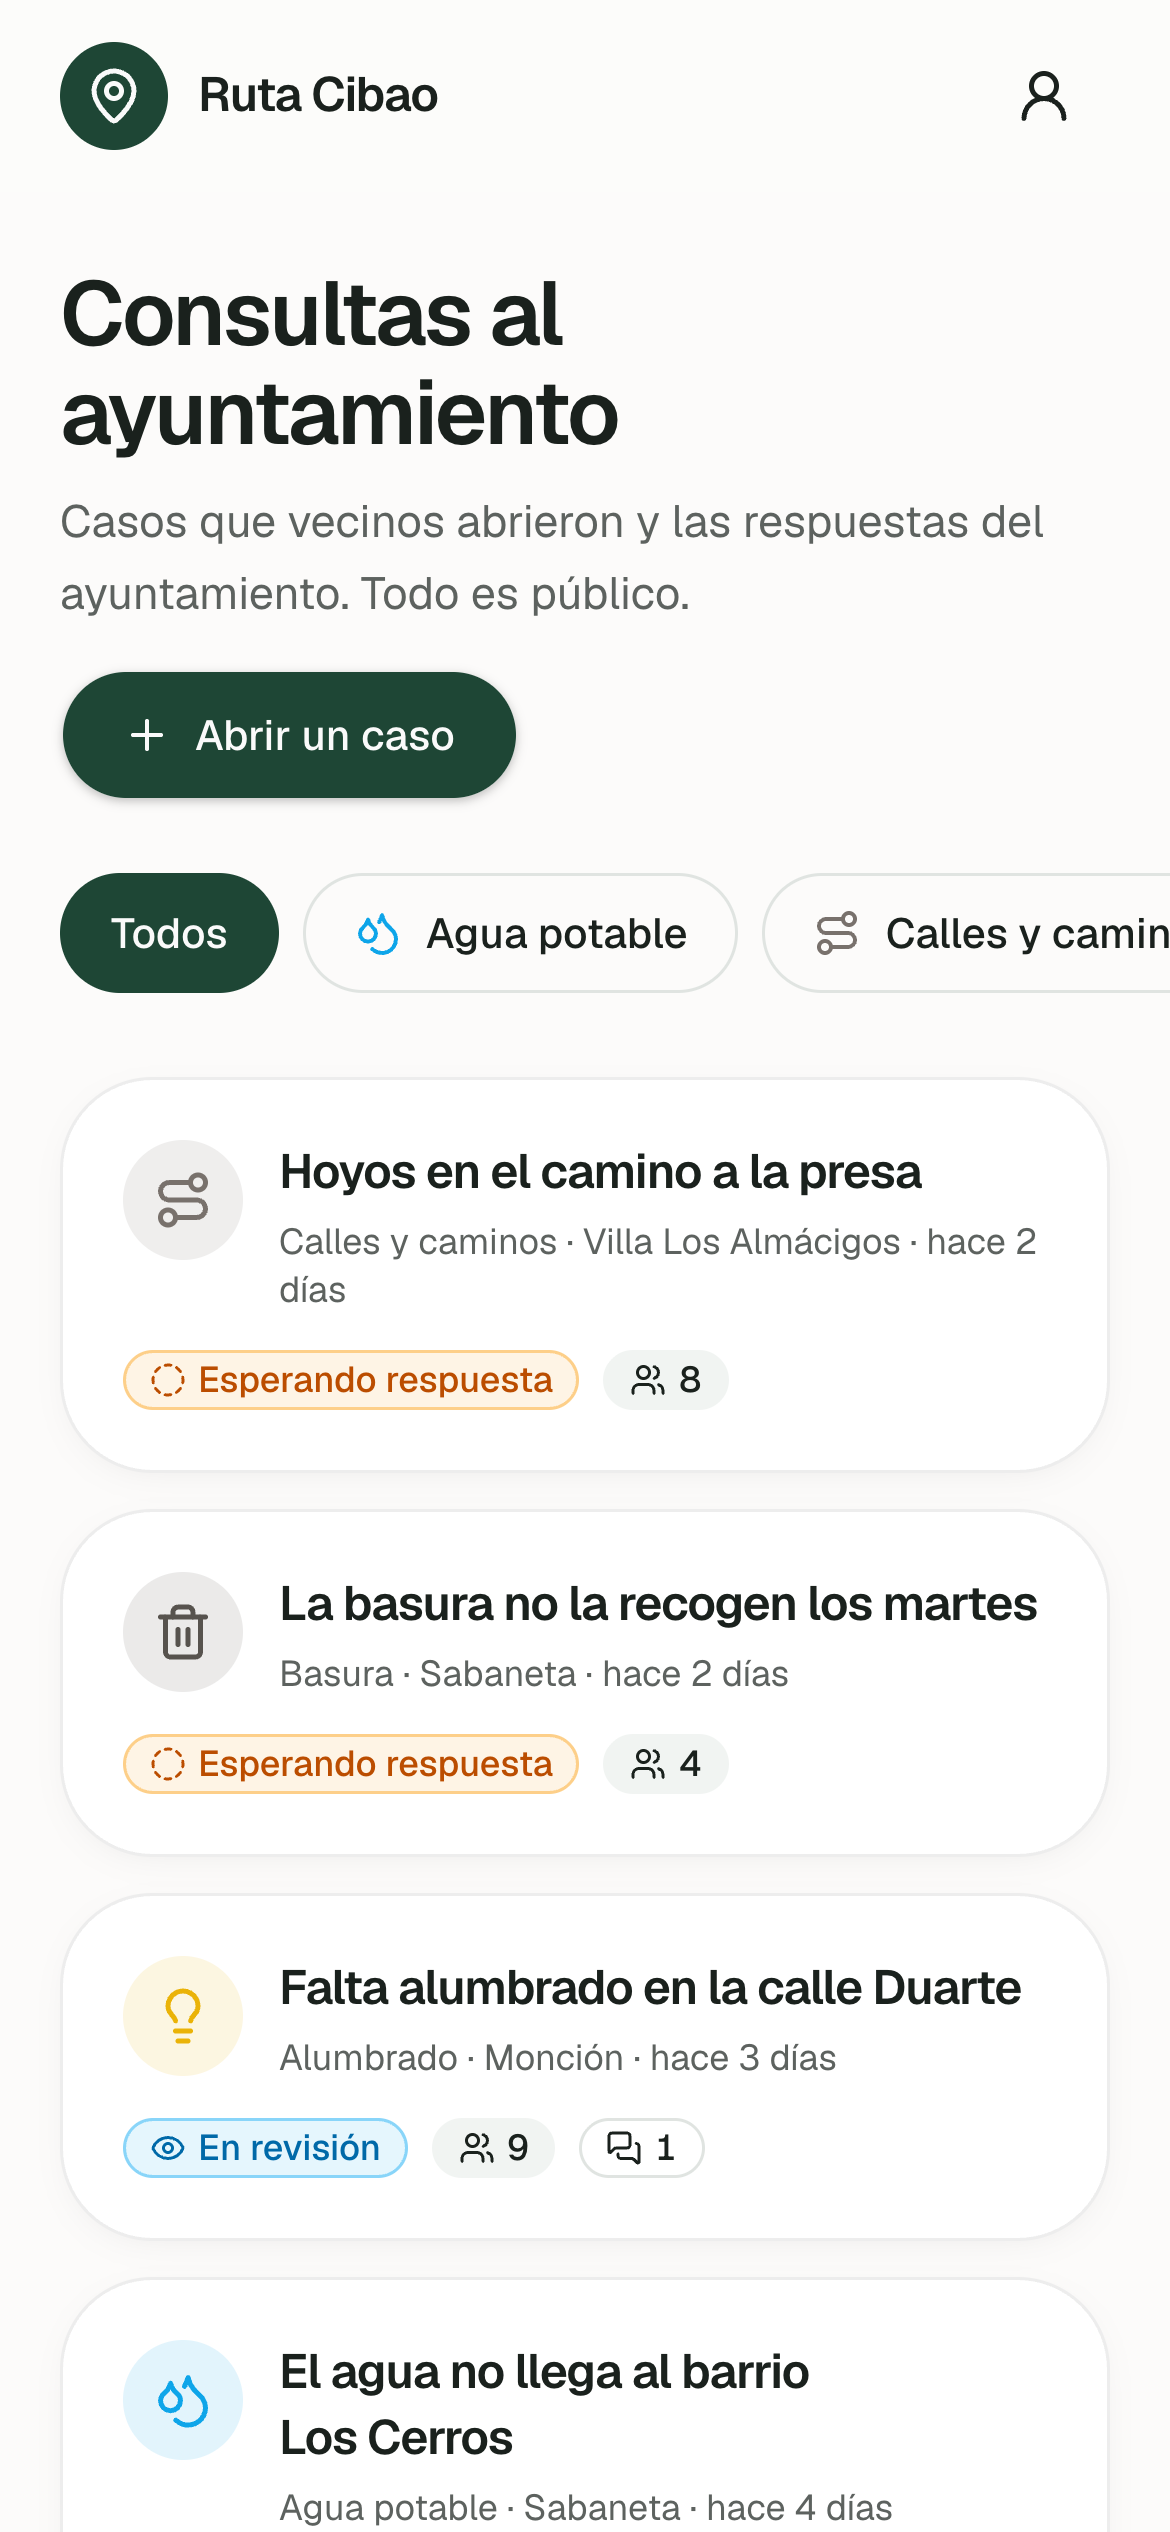
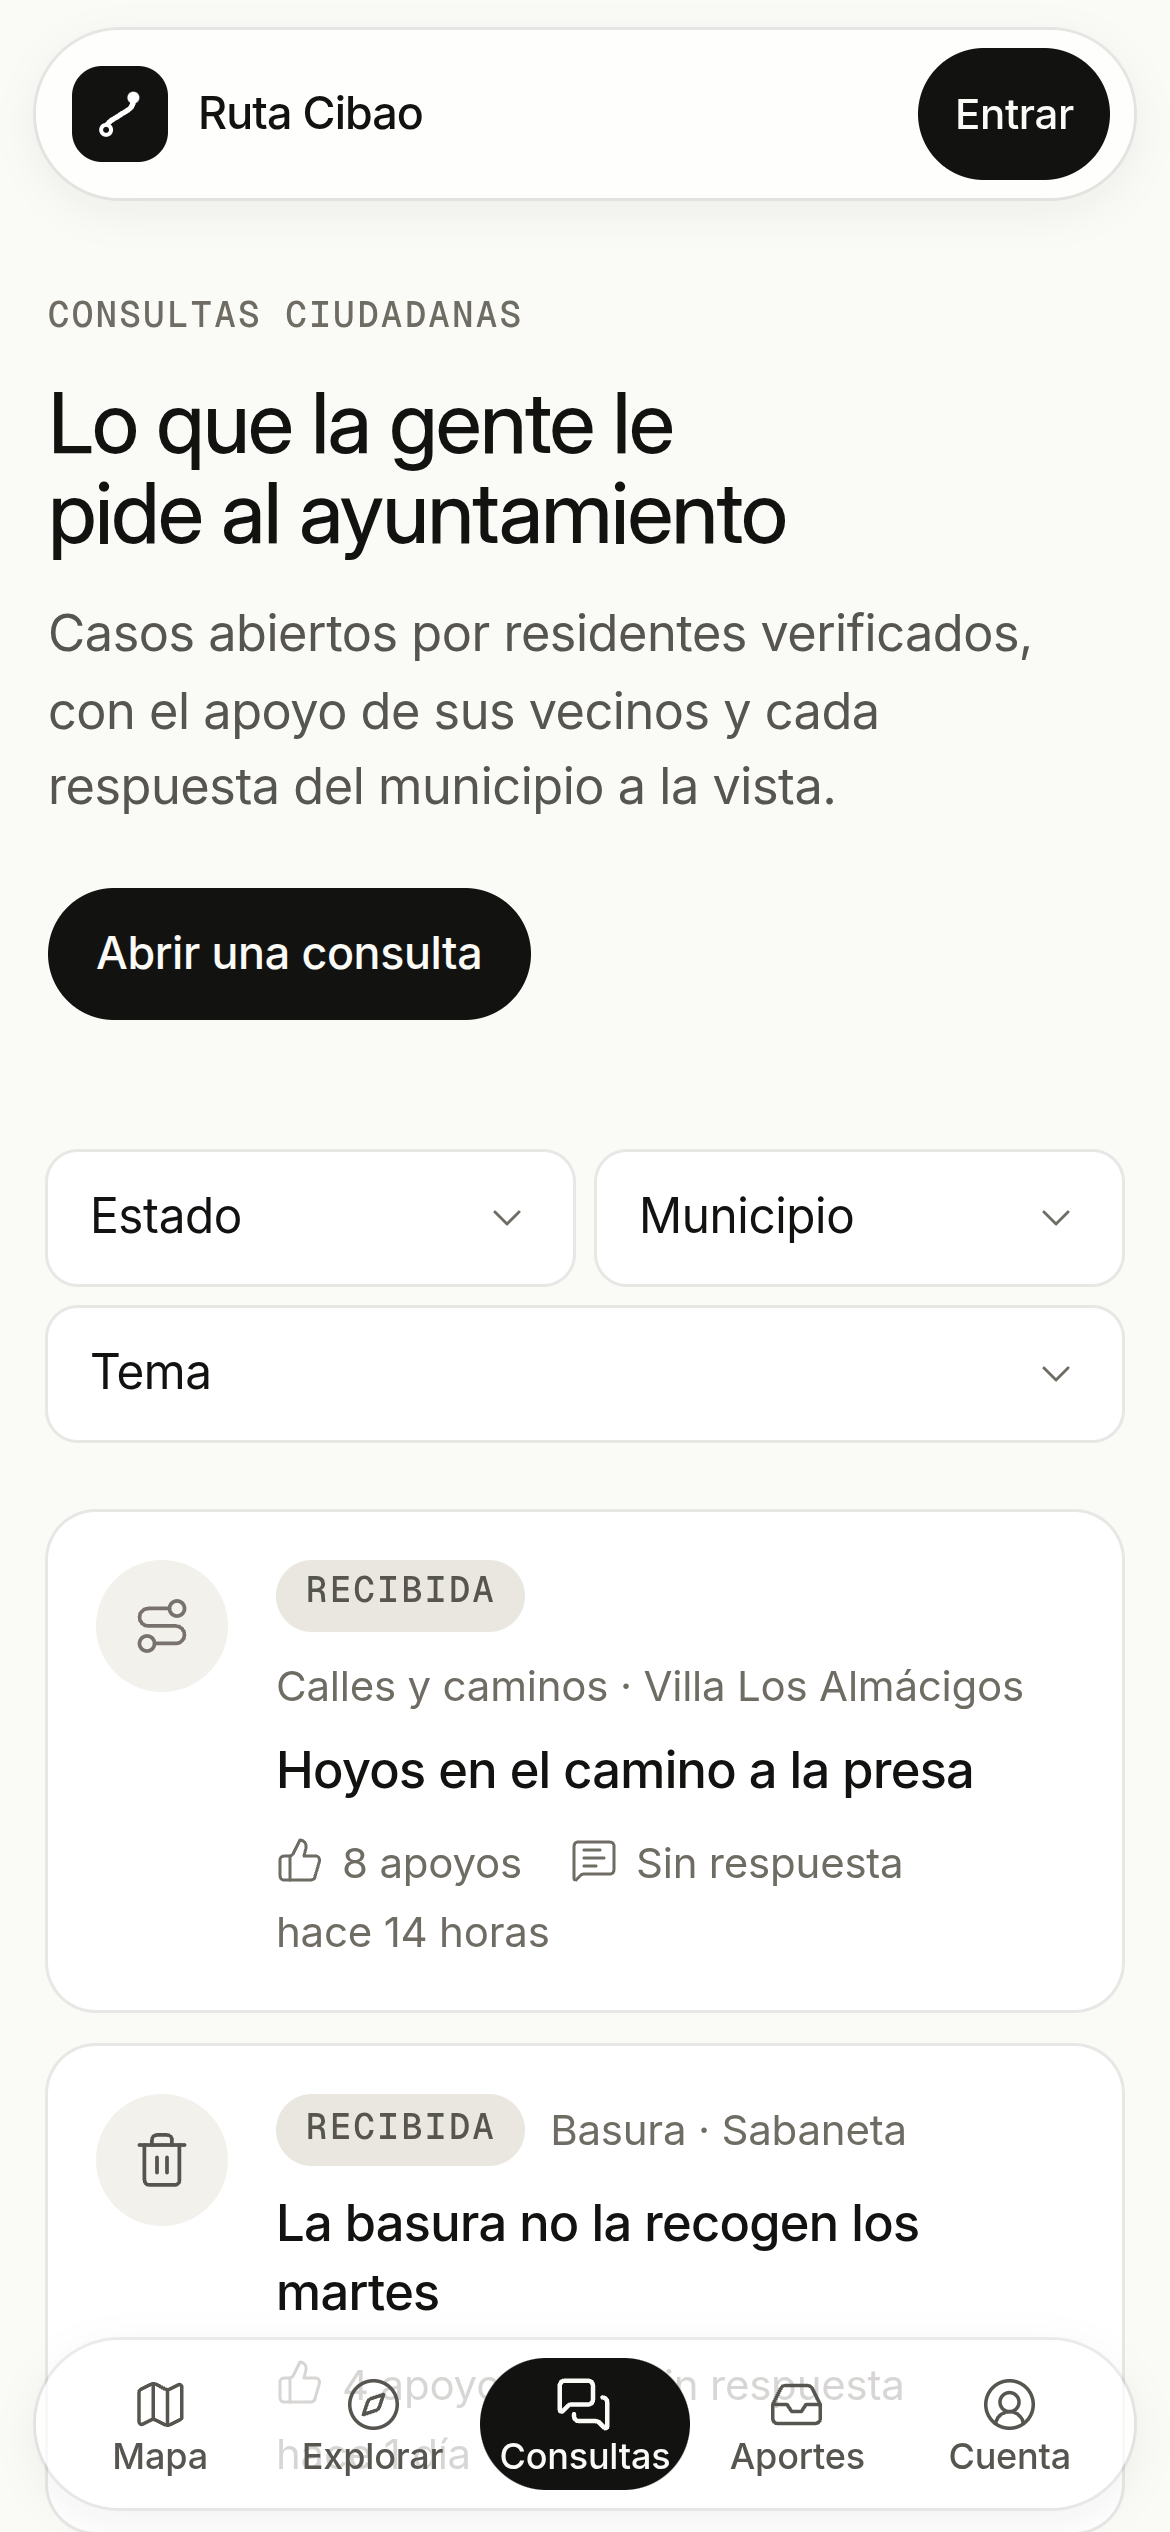
fix(map): road reports stay visible over clusters without hiding counts
Below street zoom a traffic report is a small status dot offset to the
upper right of its spot, like a badge, drawn above clusters; from street
level up it is the full chip. Clusters sit above place pins. Also refreshes
the manifest screenshots with the new UI.

diff --git a/src/components/traffic/traffic-layer.tsx b/src/components/traffic/traffic-layer.tsx
@@ -12,6 +12,7 @@ import {
 import { CategoryIcon } from "@/components/places/category-icon";
 import { useRealtime } from "@/hooks/use-realtime";
 import { cx } from "@/lib/cx";
+import { STREET_ZOOM } from "@/lib/map/config";
 import { MAP_PALETTES } from "@/lib/map/palette";
 import { TRAFFIC_COLORS, trafficTone } from "@/lib/map/traffic-colors";
 import { type client, orpc } from "@/lib/orpc";
@@ -67,10 +68,22 @@ export function TrafficLayer({
   /** The latest reports in view, so an open report shows fresh counts. */
   onData?: (reports: TrafficReport[]) => void;
 }) {
-  const { theme } = useMapContext();
+  const { theme, map } = useMapContext();
   const t = useTranslations("traffic");
   const queryClient = useQueryClient();
   const box = useViewportBox();
+  // Below street level a report is a dot, so it marks the spot without
+  // covering a cluster's count; at street level it becomes the full chip.
+  const [compact, setCompact] = useState(true);
+  useEffect(() => {
+    if (!map) return;
+    const update = () => setCompact(map.getZoom() < STREET_ZOOM);
+    update();
+    map.on("zoomend", update);
+    return () => {
+      map.off("zoomend", update);
+    };
+  }, [map]);
   const p = MAP_PALETTES[theme];
 
   const query = useQuery({
@@ -212,7 +225,8 @@ export function TrafficLayer({
           <MapMarker
             key={report.id}
             lngLat={[report.lng, report.lat]}
-            zIndex={selected ? 25 : 5}
+            zIndex={selected ? 25 : 7}
+            offset={compact && !selected ? [13, -13] : undefined}
           >
             <button
               type="button"
@@ -229,7 +243,10 @@ export function TrafficLayer({
             >
               <span
                 className={cx(
-                  "flex size-7 items-center justify-center rounded-[9px] text-white shadow-md ring-2 ring-card transition-transform duration-[260ms] ease-out group-hover:-translate-y-0.5 group-focus-visible:ring-accent",
+                  "flex items-center justify-center text-white shadow-md ring-2 ring-card transition-[transform,width,height,border-radius] duration-[260ms] ease-out group-hover:-translate-y-0.5 group-focus-visible:ring-accent",
+                  compact && !selected
+                    ? "size-3.5 rounded-full [&>svg]:hidden"
+                    : "size-7 rounded-[9px]",
                   selected && "scale-[1.3] shadow-lg",
                 )}
                 style={{ backgroundColor: TRAFFIC_COLORS[tone] }}

diff --git a/src/components/map/place-markers.tsx b/src/components/map/place-markers.tsx
@@ -314,7 +314,11 @@ export function PlaceMarkers({
     <>
       {features.map((feature) =>
         feature.kind === "cluster" ? (
-          <MapMarker key={feature.key} lngLat={[feature.lng, feature.lat]}>
+          <MapMarker
+            key={feature.key}
+            lngLat={[feature.lng, feature.lat]}
+            zIndex={6}
+          >
             <button
               type="button"
               aria-label={t("cluster", { count: feature.count })}

diff --git a/src/components/map/map-core.tsx b/src/components/map/map-core.tsx
@@ -274,6 +274,11 @@ export function MapMarker({
     marker.current?.setLngLat([lng, lat]);
   }, [lng, lat]);
 
+  const [offsetX, offsetY] = offset ?? [0, 0];
+  useEffect(() => {
+    marker.current?.setOffset([offsetX, offsetY]);
+  }, [offsetX, offsetY]);
+
   useEffect(() => {
     if (element) element.style.zIndex = String(zIndex);
   }, [element, zIndex]);
